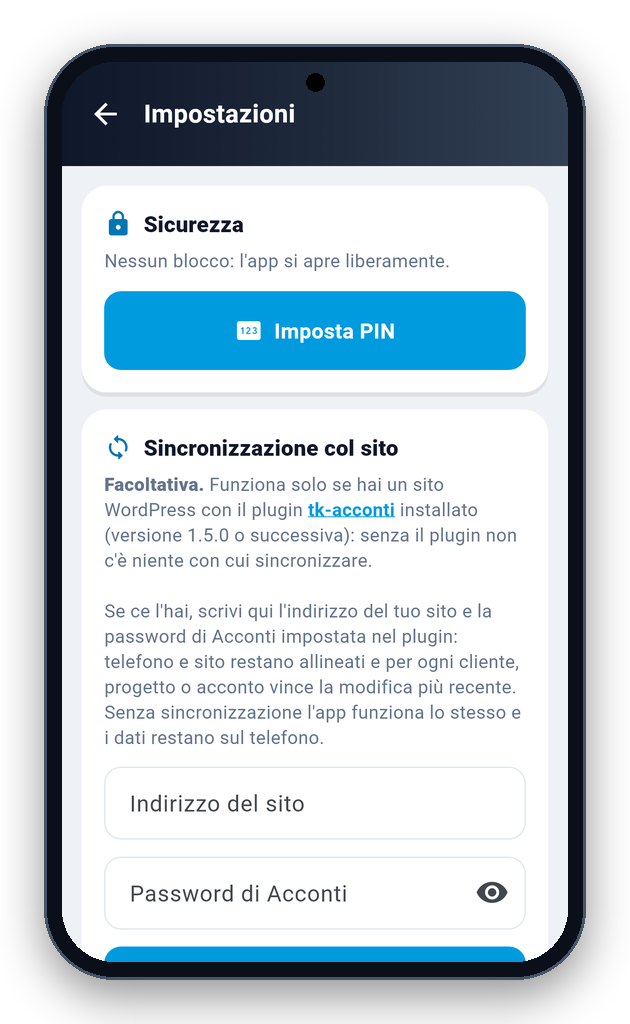
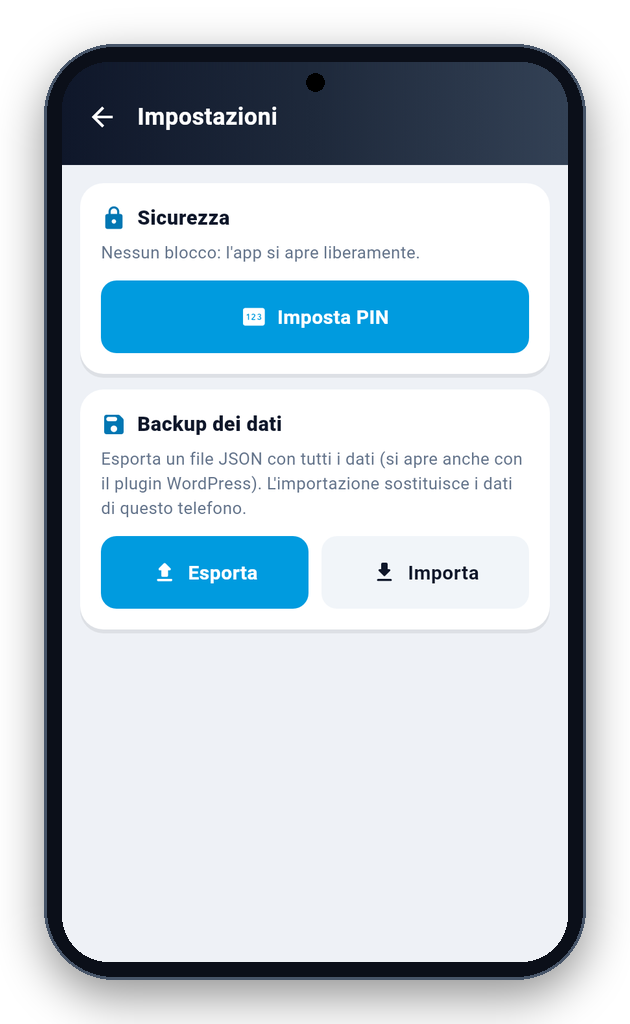
2.2.10+40: tolta la sincronizzazione col sito (scheda in Impostazioni, rete, trascina per aggiornare, righe in Benvenuto e Informazioni); indirizzo e password salvati vengono cancellati al primo avvio

diff --git a/lib/schermate/impostazioni.dart b/lib/schermate/impostazioni.dart
@@ -1,4 +1,4 @@
-// Impostazioni: blocco con PIN e impronta, sincronizzazione col sito, backup JSON.
+// Impostazioni: blocco con PIN e impronta, backup JSON.
 import 'dart:convert';
 import 'dart:io';
 
@@ -9,10 +9,8 @@ import 'package:path_provider/path_provider.dart';
 import 'package:share_plus/share_plus.dart';
 
 import '../app.dart';
-import '../dati/formati.dart';
 import '../tema.dart';
 import 'blocco.dart';
-import 'cliente.dart';
 
 class SchermataImpostazioni extends StatefulWidget {
   const SchermataImpostazioni({super.key});
@@ -22,9 +20,6 @@ class SchermataImpostazioni extends StatefulWidget {
 }
 
 class _SchermataImpostazioniState extends State<SchermataImpostazioni> {
-  late final _sito = TextEditingController(text: impostazioni.sito);
-  late final _password = TextEditingController(text: impostazioni.password);
-  bool _vedi = false;
   bool _bioDisponibile = false;
 
   @override
@@ -81,15 +76,6 @@ class _SchermataImpostazioniState extends State<SchermataImpostazioni> {
     if (!mounted) return;
     setState(() {});
     avviso(context, 'PIN impostato: verrà chiesto alla prossima apertura');
-  }
-
-  Future<void> _sincronizza() async {
-    if (_sito.text.trim().isEmpty) return avviso(context, 'Scrivi l\'indirizzo del tuo sito');
-    if (_password.text.trim().isEmpty) return avviso(context, 'Scrivi la password di Acconti del sito');
-    await impostazioni.salvaSync(_sito.text, _password.text);
-    _sito.text = impostazioni.sito;
-    final esito = await sincronizzazione.sincronizza();
-    if (mounted) avviso(context, esito);
   }
 
   Future<void> _esporta() async {
@@ -170,42 +156,6 @@ class _SchermataImpostazioniState extends State<SchermataImpostazioni> {
                     ),
                   ],
                 ]),
-                const SizedBox(height: 12),
-                ListenableBuilder(
-                  listenable: sincronizzazione,
-                  builder: (context, _) => _card(Icons.sync_rounded, 'Sincronizzazione col sito', [
-                    const TestoConLink(
-                        '**Facoltativa.** Funziona solo se hai un sito WordPress con il plugin '
-                        '[tk-acconti](https://pietrodefilippis.it/plugin/#pdc-tk-acconti) installato (versione 1.5.0 '
-                        'o successiva): senza il plugin non c\'è niente con cui sincronizzare.\n\n'
-                        'Se ce l\'hai, scrivi qui l\'indirizzo del tuo sito e la password di Acconti impostata nel '
-                        'plugin: telefono e sito restano allineati e per ogni cliente, progetto o acconto vince la '
-                        'modifica più recente. Senza sincronizzazione l\'app funziona lo stesso e i dati restano sul '
-                        'telefono.',
-                        coloreLink: accento,
-                        stile: TextStyle(color: grigio500, fontSize: 13, height: 1.4)),
-                    const SizedBox(height: 12),
-                    campo('Indirizzo del sito', _sito, tastiera: TextInputType.url, esempio: 'https://iltuosito.it'),
-                    campo('Password di Acconti', _password,
-                        tastiera: TextInputType.visiblePassword,
-                        nascosto: !_vedi,
-                        suffisso: IconButton(
-                          tooltip: _vedi ? 'Nascondi' : 'Mostra',
-                          icon: Icon(_vedi ? Icons.visibility_off_rounded : Icons.visibility_rounded),
-                          onPressed: () => setState(() => _vedi = !_vedi),
-                        )),
-                    BottoneTk(
-                      testo: sincronizzazione.inCorso ? 'Sincronizzazione in corso…' : 'Salva e sincronizza ora',
-                      icona: Icons.sync_rounded,
-                      onTap: sincronizzazione.inCorso ? null : _sincronizza,
-                    ),
-                    if (sincronizzazione.ultima > 0) ...[
-                      const SizedBox(height: 8),
-                      Text('Ultima: ${dataOra(sincronizzazione.ultima)} · ${sincronizzazione.esito}',
-                          style: TextStyle(color: sincronizzazione.ultimaOk ? grigio500 : rosso, fontSize: 12)),
-                    ],
-                  ]),
-                ),
                 const SizedBox(height: 12),
                 _card(Icons.save_rounded, 'Backup dei dati', [
                   const Text(

diff --git a/lib/schermate/home.dart b/lib/schermate/home.dart
@@ -44,10 +44,9 @@ class _SchermataHomeState extends State<SchermataHome> {
     WidgetsBinding.instance.addPostFrameCallback((_) async {
       if (!mounted) return;
       // primo avvio: benvenuto (software libero, privacy, statistiche) PRIMA di qualunque chiamata in rete
-      await benvenutoTk(context, righeExtra: const [righeBenvenuto]);
+      await benvenutoTk(context);
       if (!mounted) return;
       if (widget.crash != null) await _mostraCrash(widget.crash!);
-      sincronizzazione.sincronizzaSeServe();
       if (mounted) proponiAggiornamento(context, avvisaSeAggiornata: false);
       // invito al caffè: al primo avvio e poi al massimo una volta al mese, mai sopra un'altra finestra
       if (mounted) invitoCaffe(context);
@@ -114,7 +113,7 @@ class _SchermataHomeState extends State<SchermataHome> {
                   }),
                   AzioneTk(Icons.settings_rounded, 'Impostazioni', () => vai(context, const SchermataImpostazioni())),
                   AzioneTk(Icons.info, 'Informazioni',
-                      () => apriInformazioni(context, righe: () async => datiInformazioni(), notaDati: notaDati)),
+                      () => apriInformazioni(context, righe: () async => datiInformazioni())),
                 ],
                 sotto: Column(crossAxisAlignment: CrossAxisAlignment.start, children: [
                   if (_cercando) ...[
@@ -145,17 +144,7 @@ class _SchermataHomeState extends State<SchermataHome> {
                 ]),
               ),
               Expanded(
-                child: RefreshIndicator(
-                  color: accento,
-                  onRefresh: () async {
-                    if (!sincronizzazione.configurata) {
-                      avviso(context, 'Per allineare col sito imposta indirizzo e password in Impostazioni');
-                      return;
-                    }
-                    final esito = await sincronizzazione.sincronizza();
-                    if (context.mounted) avviso(context, esito);
-                  },
-                  child: ListView(
+                child: ListView(
                     padding: EdgeInsets.fromLTRB(14, 14, 14, 100 + MediaQuery.of(context).padding.bottom),
                     children: [
                       _cardSegnalatori(),
@@ -189,7 +178,6 @@ class _SchermataHomeState extends State<SchermataHome> {
                           Padding(padding: const EdgeInsets.only(bottom: 10), child: _RigaCliente(c)),
                     ],
                   ),
-                ),
               ),
             ]),
           );
@@ -339,28 +327,18 @@ class _RigaCliente extends StatelessWidget {
   }
 }
 
-/// Riga in più del benvenuto: cosa va in rete con la sincronizzazione (solo verso il sito scelto dall'utente).
-const righeBenvenuto = 'La **sincronizzazione** è facoltativa: se la attivi nelle Impostazioni, clienti, progetti '
-    'e acconti vanno solo al **tuo sito** (pagina Acconti), con la password che scegli tu.';
-
-/// Nota sotto «I tuoi dati» in Informazioni.
-const notaDati = 'Restano su questo telefono; con la sincronizzazione anche sul tuo sito.';
-
-/// Schede dati di Informazioni: quanti clienti, progetti, acconti e segnalatori, quanto c'è da incassare,
-/// a che sito si sincronizza.
+/// Schede dati di Informazioni: quanti clienti, progetti, acconti e segnalatori, e quanto c'è da incassare.
 List<(String, String)> datiInformazioni() {
   final clienti = archivio.clienti;
   final progetti = clienti.fold<int>(0, (s, c) => s + c.progetti.length);
   final acconti = clienti.fold<int>(0, (s, c) => s + c.progetti.fold<int>(0, (t, p) => t + p.acconti.length));
   final totale = clienti.fold<double>(0, (s, c) => s + c.totale);
   final incassato = clienti.fold<double>(0, (s, c) => s + c.incassato);
-  final sito = impostazioni.sito.replaceFirst(RegExp(r'^https?://'), '');
   return [
     ('Clienti', '${clienti.length}'),
     ('Progetti', '$progetti'),
     ('Acconti', '$acconti'),
     ('Segnalatori', '${archivio.segnalatori.length}'),
     ('Da incassare', euro((totale - incassato).clamp(0, double.infinity))),
-    ('Sincronizzazione', sito.isEmpty ? 'spenta' : sito),
   ];
 }

diff --git a/lib/dati/impostazioni.dart b/lib/dati/impostazioni.dart
@@ -1,6 +1,6 @@
-// Impostazioni di tk-acconti: sito e password della sincronizzazione, PIN, impronta.
+// Impostazioni di tk-acconti: PIN e impronta.
 // Al primo avvio dopo l'aggiornamento recupera quelle salvate dalla versione Kotlin
-// (SharedPreferences «tk_sync» e DataStore «tk_acconti_sicurezza»), così non si deve reinserire niente.
+// (DataStore «tk_acconti_sicurezza»), così non si deve reinserire niente.
 import 'dart:convert';
 import 'dart:io';
 import 'dart:typed_data';
@@ -16,38 +16,28 @@ class Impostazioni {
   final SharedPreferences _p;
   final FlutterSecureStorage _sicuro;
 
-  String sito = '';
-  String password = '';
   String _pinHash = '';
 
   static Future<Impostazioni> carica({FlutterSecureStorage? sicuro}) async {
     final i = Impostazioni._(await SharedPreferences.getInstance(), sicuro ?? const FlutterSecureStorage());
     if (!(i._p.getBool('migrato') ?? false)) await i._recuperaVecchie();
-    i.sito = i._p.getString('sito') ?? '';
-    i.password = await i._sicuro.read(key: 'password_sito') ?? '';
+    if (!(i._p.getBool('sync_tolta') ?? false)) await i._togliSync();
     i._pinHash = await i._sicuro.read(key: 'pin_hash') ?? '';
     return i;
   }
 
-  int get syncUltima => _p.getInt('sync_ultima') ?? 0;
-  String get syncEsito => _p.getString('sync_esito') ?? '';
   bool get biometria => _p.getBool('biometria') ?? false;
   bool get haPin => _pinHash.isNotEmpty;
 
-  Future<void> salvaSync(String nuovoSito, String nuovaPassword) async {
-    var s = nuovoSito.trim();
-    while (s.endsWith('/')) {
-      s = s.substring(0, s.length - 1);
+  /// La sincronizzazione col sito non c'è più: si cancellano indirizzo, password ed esito salvati (una volta sola).
+  Future<void> _togliSync() async {
+    for (final k in ['sito', 'sync_ultima', 'sync_esito']) {
+      await _p.remove(k);
     }
-    sito = s;
-    password = nuovaPassword.trim();
-    await _p.setString('sito', sito);
-    await _sicuro.write(key: 'password_sito', value: password);
-  }
-
-  Future<void> salvaEsitoSync(int quando, String esito) async {
-    await _p.setInt('sync_ultima', quando);
-    await _p.setString('sync_esito', esito);
+    try {
+      await _sicuro.delete(key: 'password_sito');
+    } catch (_) {}
+    await _p.setBool('sync_tolta', true);
   }
 
   // ── PIN: si salva solo l'impronta SHA-256, come prima (il vecchio PIN resta valido) ──
@@ -75,16 +65,6 @@ class Impostazioni {
     try {
       if (Platform.isAndroid) {
         final files = await getApplicationSupportDirectory(); // /data/user/0/<pacchetto>/files
-        final cartellaApp = files.parent.path;
-        final xml = File('$cartellaApp/shared_prefs/tk_sync.xml');
-        if (xml.existsSync()) {
-          final v = leggiSharedPreferencesXml(xml.readAsStringSync());
-          if ((v['sito'] ?? '').isNotEmpty) await _p.setString('sito', v['sito']!);
-          if ((v['password'] ?? '').isNotEmpty) await _sicuro.write(key: 'password_sito', value: v['password']!);
-          final ultima = int.tryParse(v['ultima'] ?? '');
-          if (ultima != null) await _p.setInt('sync_ultima', ultima);
-          if ((v['esito'] ?? '').isNotEmpty) await _p.setString('sync_esito', v['esito']!);
-        }
         final pb = File('${files.path}/datastore/tk_acconti_sicurezza.preferences_pb');
         if (pb.existsSync()) {
           final v = leggiDataStore(pb.readAsBytesSync());

diff --git a/test/schermate_golden_test.dart b/test/schermate_golden_test.dart
@@ -5,7 +5,6 @@ import 'package:flutter/material.dart';
 import 'package:flutter_test/flutter_test.dart';
 import 'package:package_info_plus/package_info_plus.dart';
 import 'package:shared_preferences/shared_preferences.dart';
-import 'package:tkacconti/schermate/home.dart' show notaDati, righeBenvenuto;
 import 'package:tkacconti/tema.dart';
 import 'package:tkacconti/tk_licenza.dart';
 import 'package:tkacconti/tk_pro.dart';
@@ -49,7 +48,7 @@ void main() {
     proTk = ProTk(lic);
     addTearDown(t.view.reset);
 
-    await _mostra(t, SchermataBenvenuto(lic: lic, righeExtra: const [righeBenvenuto]));
+    await _mostra(t, SchermataBenvenuto(lic: lic));
     await expectLater(find.byType(MaterialApp), matchesGoldenFile('goldens/benvenuto.png'));
 
     // con l'interruttore acceso
@@ -67,9 +66,8 @@ void main() {
           ('Acconti', '164'),
           ('Segnalatori', '2'),
           ('Da incassare', '7.310 €'),
-          ('Sincronizzazione', 'esempio.it'),
         ];
-    await _mostra(t, SchermataInformazioni(righe: righe, notaDati: notaDati));
+    await _mostra(t, SchermataInformazioni(righe: righe));
     await expectLater(find.byType(MaterialApp), matchesGoldenFile('goldens/informazioni.png'));
 
     await t.drag(find.byType(Scrollable).first, const Offset(0, -2000));
@@ -77,7 +75,7 @@ void main() {
     await expectLater(find.byType(MaterialApp), matchesGoldenFile('goldens/informazioni-fondo.png'));
 
     // tutta la pagina in una foto sola (telefono «lungo»)
-    await _mostra(t, SchermataInformazioni(righe: righe, notaDati: notaDati), lato: const Size(412, 1150));
+    await _mostra(t, SchermataInformazioni(righe: righe), lato: const Size(412, 1150));
     await expectLater(find.byType(MaterialApp), matchesGoldenFile('goldens/informazioni-intera.png'));
 
     await _mostra(t, const SchermataLicenze(versione: '2.2.0'));

diff --git a/lib/main.dart b/lib/main.dart
@@ -1,5 +1,5 @@
 // tk-acconti per Android e iPhone — TecnikGeek (pietrodefilippis.it)
-// Acconti dei clienti, progetti e segnalatori; si sincronizza con la pagina Acconti del sito.
+// Acconti dei clienti, progetti e segnalatori.
 // Copyright (C) 2026 Pietro De Filippis (TecnikGeek) — AGPL-3.0-or-later, vedi COPYING
 import 'dart:io';
 import 'dart:ui';
@@ -14,7 +14,6 @@ import 'app.dart';
 import 'dati/archivio.dart';
 import 'dati/database.dart';
 import 'dati/impostazioni.dart';
-import 'dati/sincronizzazione.dart';
 import 'schermate/blocco.dart';
 import 'schermate/home.dart';
 import 'tema.dart';
@@ -45,8 +44,6 @@ Future<void> _inizializza() async {
   await _copiaDiSicurezza();
   archivio = Archivio(await apriDatabase());
   await archivio.ricarica();
-  sincronizzazione = Sincronizzazione(archivio, impostazioni);
-  archivio.onModifica = sincronizzazione.pianifica;
 }
 
 /// Al primo avvio della versione Flutter copia il database della versione Kotlin (una volta sola):

diff --git a/test/anteprima_test.dart b/test/anteprima_test.dart
@@ -16,7 +16,6 @@ import 'package:tkacconti/dati/archivio.dart';
 import 'package:tkacconti/dati/database.dart';
 import 'package:tkacconti/dati/impostazioni.dart';
 import 'package:tkacconti/dati/modelli.dart';
-import 'package:tkacconti/dati/sincronizzazione.dart';
 import 'package:tkacconti/schermate/cliente.dart';
 import 'package:tkacconti/schermate/home.dart';
 import 'package:tkacconti/schermate/impostazioni.dart';
@@ -77,7 +76,6 @@ void main() {
     var d = f == null ? esempio() : jsonDecode(File(f).readAsStringSync());
     if (d is String) d = jsonDecode(d);
     await archivio.applicaDalSito(jsonEncode({'dati': d}), adesso());
-    sincronizzazione = Sincronizzazione(archivio, impostazioni);
     await caricaCaratteri();
   });
 

diff --git a/lib/dati/archivio.dart b/lib/dati/archivio.dart
@@ -18,9 +18,6 @@ class Archivio extends ChangeNotifier {
   List<SegnalatoreConProgetti> segnalatori = const [];
   bool pronto = false;
 
-  /// Chiamata a ogni modifica locale: l'app la usa per programmare la sincronizzazione col sito.
-  VoidCallback? onModifica;
-
   // ───────────────────────── lettura ─────────────────────────
 
   Future<void> ricarica() async {
@@ -89,7 +86,6 @@ class Archivio extends ChangeNotifier {
 
   Future<void> _fatto() async {
     await ricarica();
-    onModifica?.call();
   }
 
   Future<void> _traccia(DatabaseExecutor e, String tipo, String uid) async {

diff --git a/lib/app.dart b/lib/app.dart
@@ -1,8 +1,6 @@
 // Oggetti condivisi dell'app, creati in main.dart all'avvio.
 import 'dati/archivio.dart';
 import 'dati/impostazioni.dart';
-import 'dati/sincronizzazione.dart';
 
 late Archivio archivio;
 late Impostazioni impostazioni;
-late Sincronizzazione sincronizzazione;

diff --git a/README.md b/README.md
@@ -55,8 +55,8 @@ I tuoi dati sempre recuperabili.
 </td>
 <td width="50%" valign="top">
 
-### 🔄&nbsp; Sincronizzazione col sito
-Facoltativa, con la pagina Acconti del tuo sito.
+### 📴&nbsp; Tutto sul telefono
+Niente account e niente server: funziona anche senza rete.
 
 </td>
 </tr>
@@ -81,7 +81,7 @@ Facoltativa, con la pagina Acconti del tuo sito.
 
 ## 🔒 I tuoi dati
 
-- **Privacy:** i dati restano sul telefono; con la sincronizzazione vanno solo al sito che scegli tu. Le statistiche anonime (una volta al giorno: nome, versione, sistema e un codice casuale) partono solo se dici sì nel benvenuto o in Informazioni.
+- **Privacy:** i dati restano sul telefono e non vanno da nessuna parte. Le statistiche anonime (una volta al giorno: nome, versione, sistema e un codice casuale) partono solo se dici sì nel benvenuto o in Informazioni.
 
 Nessuna pubblicità, nessun account da creare, nessun abbonamento: tutte le funzioni sono gratis, per tutti.
 
